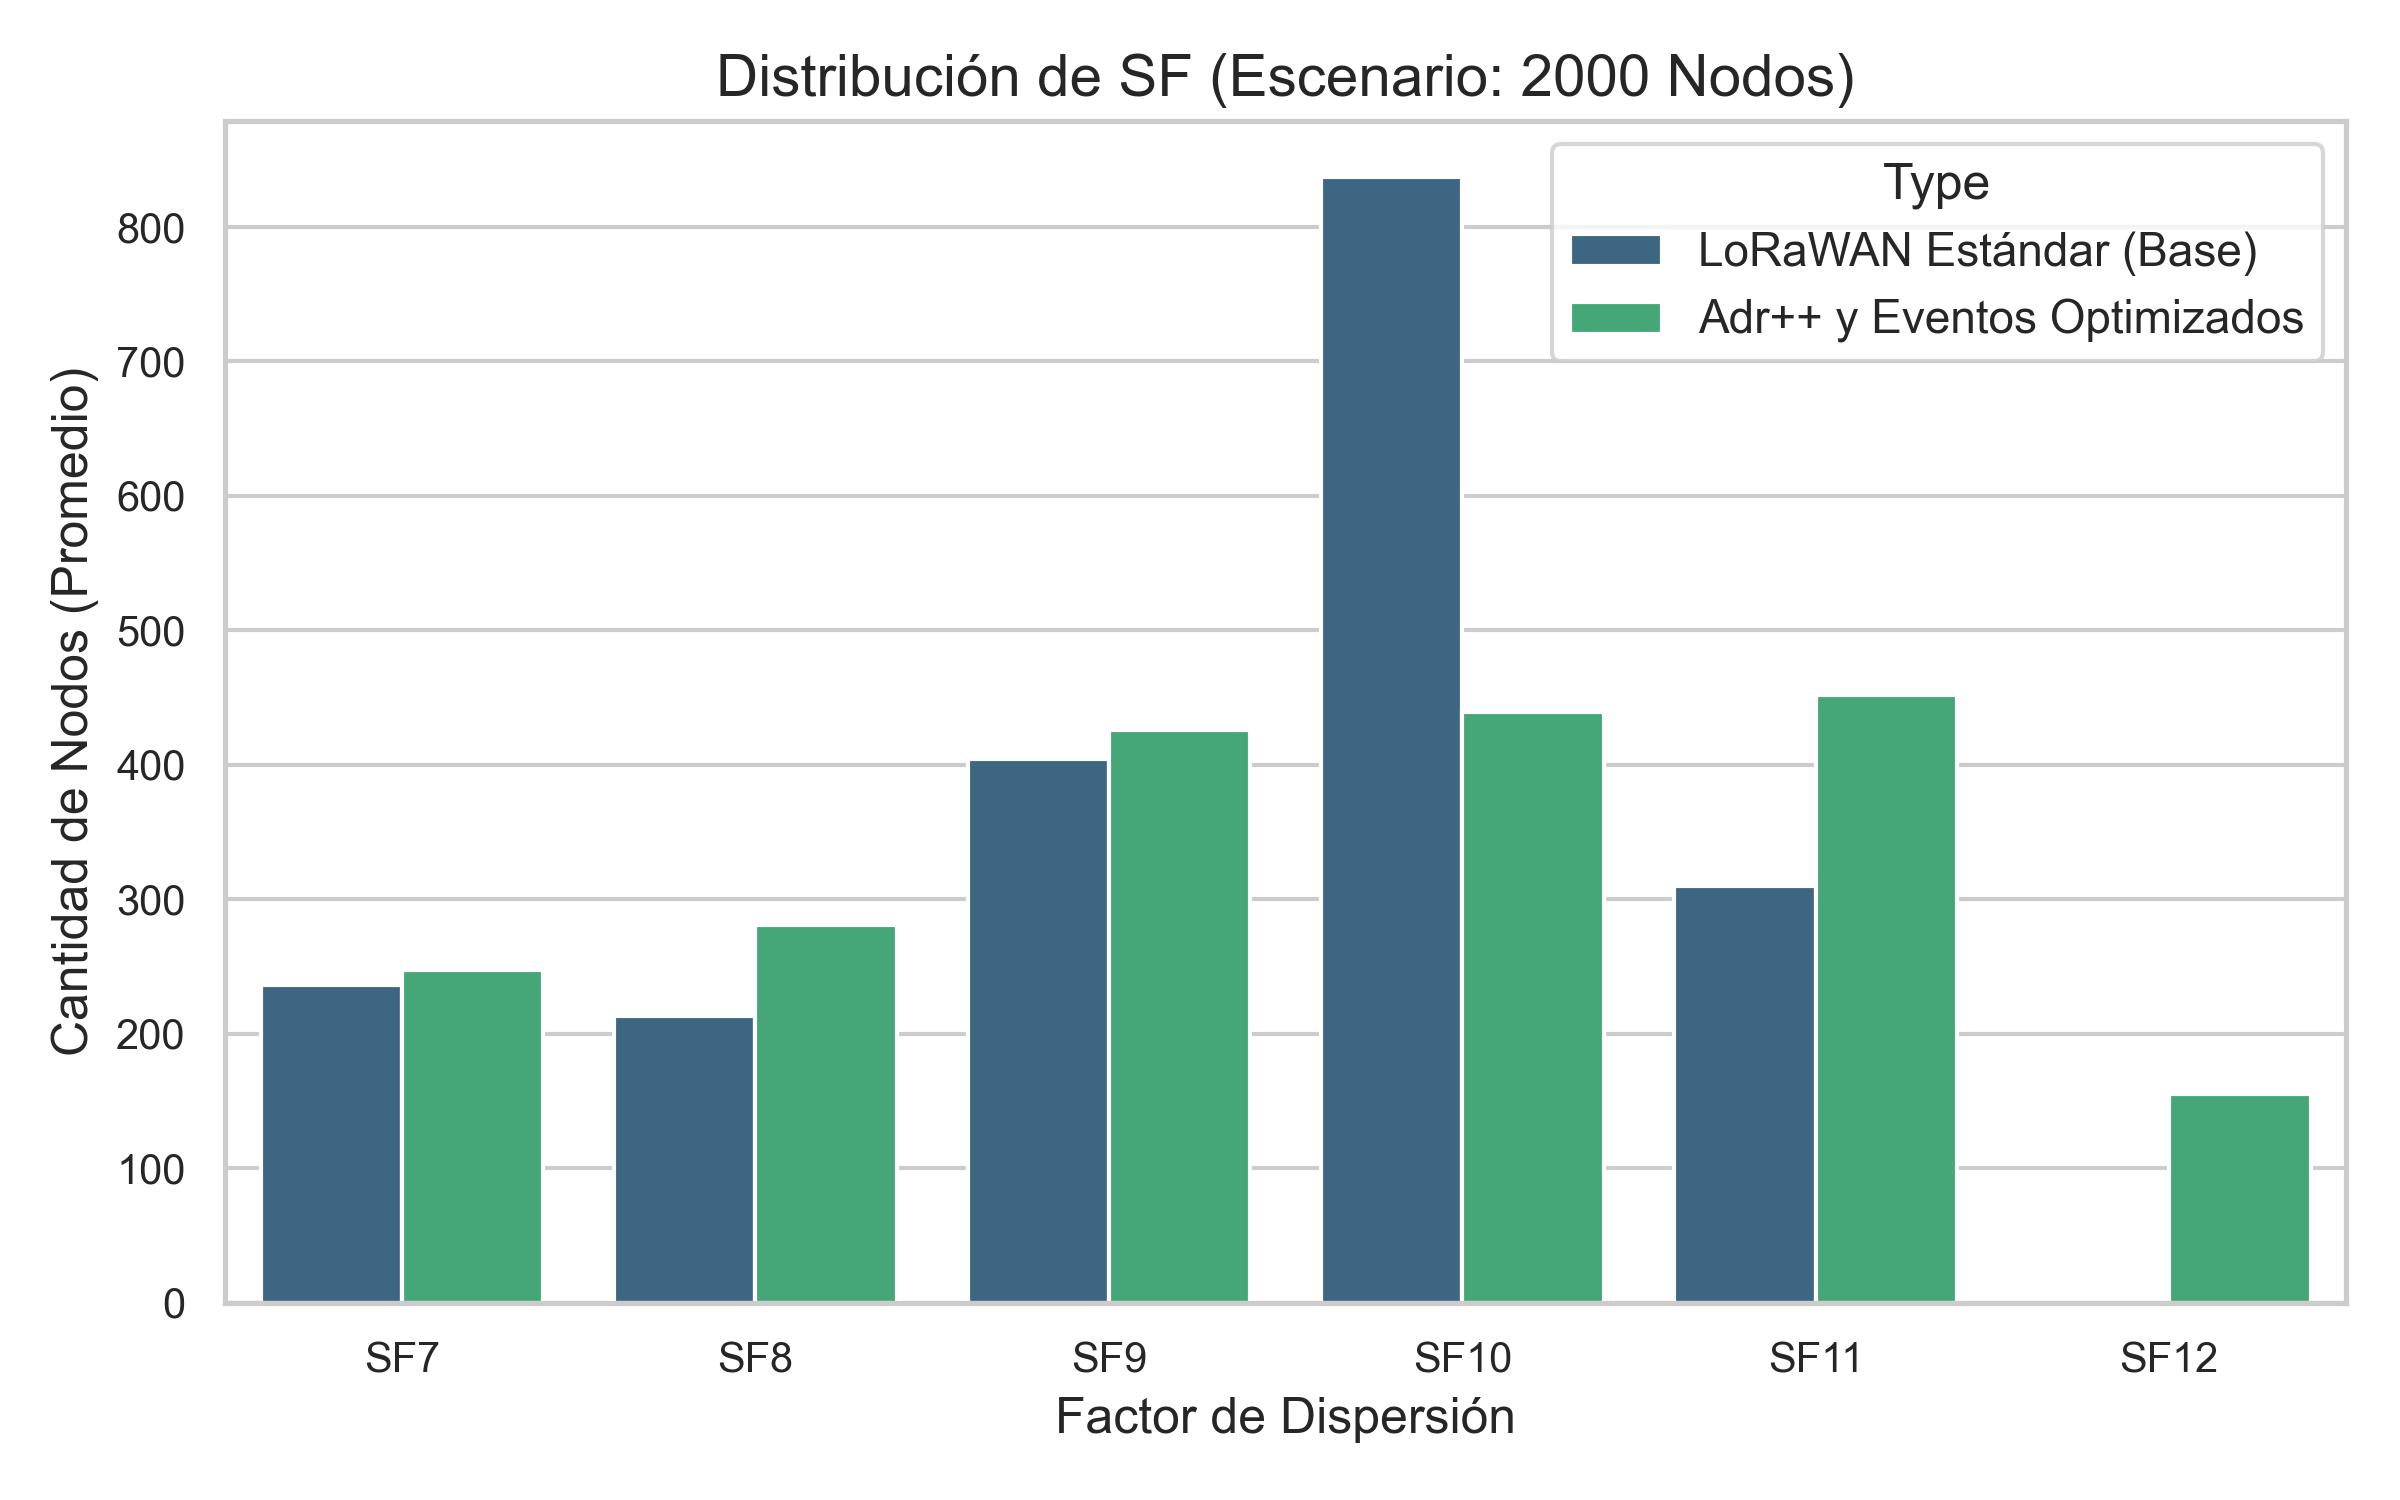
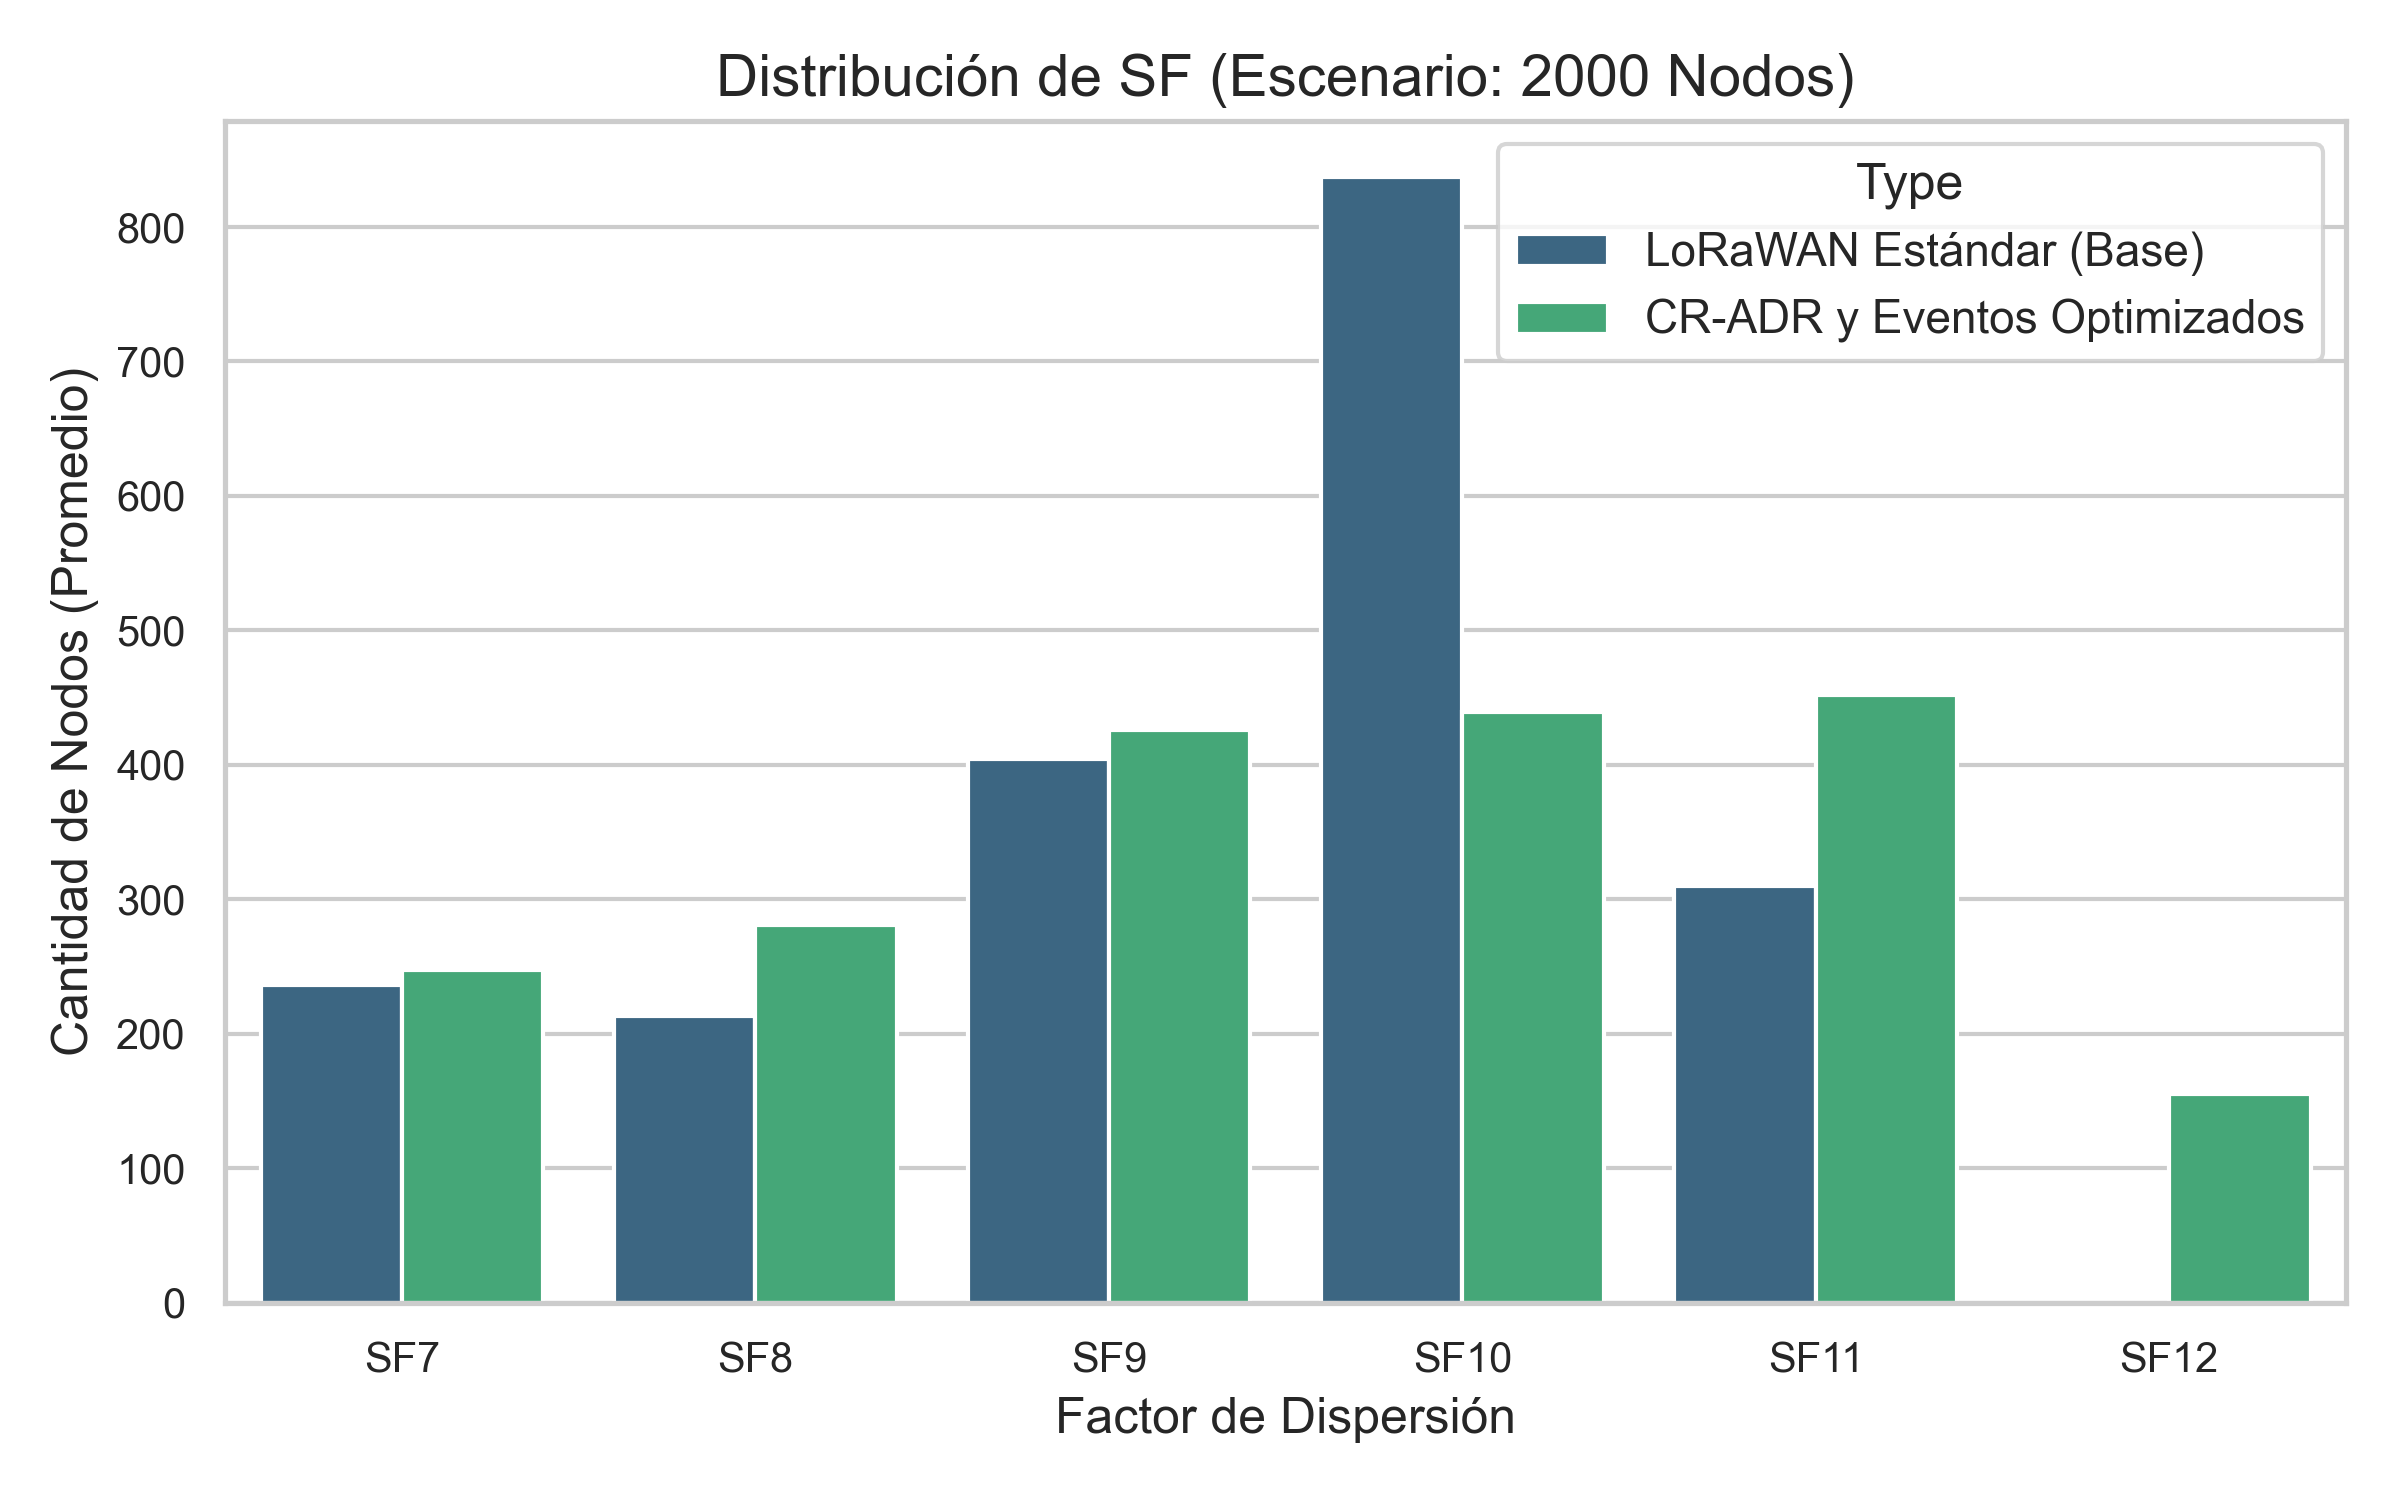
fix: all xddx

Changed region(s): [[0.625, 0.092, 0.9375, 0.2453]]

diff --git a/generate_plots.py b/generate_plots.py
@@ -73,7 +73,7 @@ def plot_metric(df, y_col, title, ylabel, filename, log_scale=False):
     mod = df[df['Type'] == 'MODIFIED']
     
     plt.plot(base['nodes'], base[y_col], 'o--', label='LoRaWAN Estándar (Base)')
-    plt.plot(mod['nodes'], mod[y_col], 's-', label='Adr++ y Eventos Optimizados')
+    plt.plot(mod['nodes'], mod[y_col], 's-', label='CR-ADR y Eventos Optimizados')
     
     plt.title(title)
     plt.xlabel('Densidad de Nodos')
@@ -95,7 +95,7 @@ def density_to_nodes_energy(df):
     df_mean = df.groupby(['nodes', 'Type']).mean(numeric_only=True).reset_index()
     plt.figure(figsize=(8, 5))
 
-    df_mean['Type'] = df_mean['Type'].replace({'BASE': 'LoRaWAN Estándar (Base)', 'MODIFIED': 'Adr++ y Eventos Optimizados'})
+    df_mean['Type'] = df_mean['Type'].replace({'BASE': 'LoRaWAN Estándar (Base)', 'MODIFIED': 'CR-ADR y Eventos Optimizados'})
     sns.lineplot(data=df_mean, x='nodes', y='Energy', hue='Type', style='Type', markers=True, dashes=False, linewidth=2)
     plt.title('Consumo Energético Total de la Red')
     plt.ylabel('Energía Total (J)')

diff --git a/src/lora_simulator.py b/src/lora_simulator.py
@@ -49,7 +49,7 @@ def network_server_process(env: simpy.Environment, nodes: List['myNode'], config
     """
     simulates the Network Server responsible for calculating and enforcing ADR++ policy.
     """
-    adr_config = config['ADR_PLUS_PLUS']
+    adr_config = config['CR_ADR']
     adr_interval = adr_config['ADR_CHECK_INTERVAL']
     efficiency_threshold = adr_config['EFFICIENCY_THRESHOLD']
     
@@ -92,7 +92,7 @@ def run_simulation(config: dict, nr_nodes: int, is_modified: bool):
     # 1. parameter extraction
     sim_params = config['SIMULATION_PARAMS']
     exp_ctrl = config['EXPERIMENT_CONTROL']
-    adr_config = config['ADR_PLUS_PLUS']
+    adr_config = config['CR_ADR']
 
     full_collision = sim_params['FULL_COLLISION_MODEL']
     max_bs_receives = exp_ctrl['MAX_BS_RECEIVES']

diff --git a/main.py b/main.py
@@ -55,7 +55,7 @@ def run_automated_experiments():
         base_stats = calculate_stats(base_nodes, base_time, config)
         
         # 2. RUN MODIFIED SIMULATION
-        print(" -> Running Modified (ADR++ and Event-based)...")
+        print(" -> Running Modified (CR_ADR and Event-based)...")
         reset_global_counters()
         mod_nodes, mod_time = run_simulation(config, nr_nodes, is_modified=True)
         mod_stats = calculate_stats(mod_nodes, mod_time, config)

diff --git a/README.md b/README.md
@@ -1,4 +1,4 @@
-# LoRaWAN Simulation with ADR++ and Event Optimization
+# LoRaWAN Simulation with Congestion-Resilient ADR and Event Optimization
 
 ## Overview
 
@@ -25,7 +25,7 @@ This repository is based on the original [LoRaFREE simulator](https://github.com
 
 - **Python 3 Migration**: Complete refactoring from Python 2 to Python 3 for modern compatibility
 - **Event-Driven Simulation**: Added support for discrete event simulation capabilities
-- **ADR++ Support**: Implementation of the enhanced Adaptive Data Rate (ADR++) algorithm
+- **Congestion-Resilient ADR**: Implementation of the enhanced Congestion-Resilient ADR algorithm
 - **Code Refactoring**: Improved code structure, modularity, and maintainability
 
 ## Requirements
